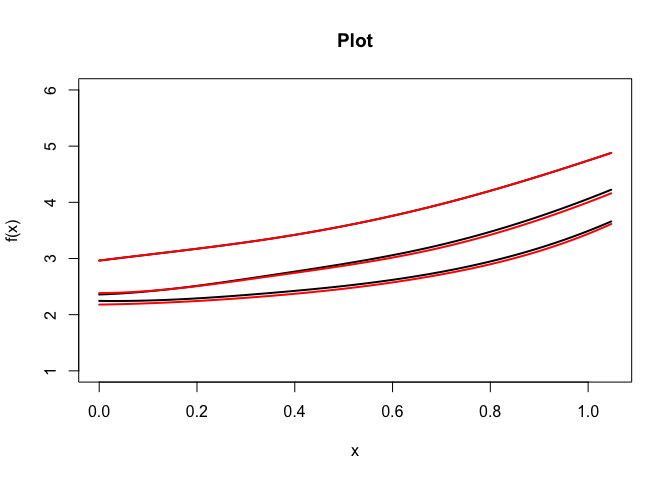
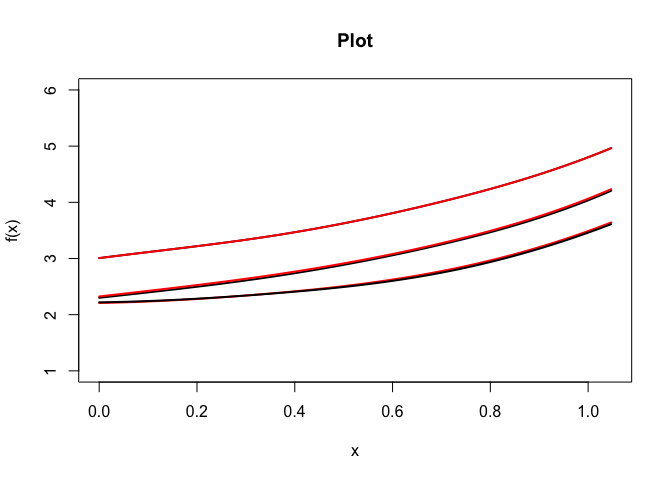
Tenth Commit

diff --git a/README.md b/README.md
@@ -40,7 +40,10 @@ library(funclustVI)
 # Model Arguments 
 x = seq(from=0,to=pi/3, length = 100)
 curves_per_cluster = 10
-Y = Case_7(x, curves_per_cluster)
+data_params = list()
+data_params$x = x 
+data_params$curves_per_cluster = curves_per_cluster
+Y = Case_7(data_params)
 K = 3 
 init = "km"
 nbasis = 6
@@ -50,27 +53,27 @@ gamma_dist_config_matrix[1, ] = c(78.125, 78.125, 78.125) * 100
 gamma_dist_config_matrix[2, ] = c(12.5, 12.5, 12.5) * 100
 convergence_threshold = 1
 verbose = FALSE
+draw = FALSE
 
-model = funcslustVI(Y, K, nbasis, x, init, true_cluster_assignments, gamma_dist_config_matrix, convergence_threshold, verbose)
+model = funcslustVI(Y, x, K, init, nbasis, convergence_threshold, gamma_dist_config_matrix, true_cluster_assignments, verbose, draw)
 
 cluster_assignemnts = model$cluster_assignments
 
 print(cluster_assignemnts)
-#>  [1] 3 3 3 3 3 3 3 3 3 3 2 2 2 2 2 2 2 2 2 2 3 1 3 1 1 1 3 3 1 1
+#>  [1] 3 3 3 3 3 3 3 3 3 3 2 2 2 2 2 2 2 2 2 2 1 1 1 1 1 1 1 1 1 1
 ```
 
 This is an example which shows how to run simulations. Since draw =
 True, a plot is generated showing the true vs estimated functions.
 
 ``` r
-#Simulation Arguments 
-case = "Case_7"
+#Initializations
 x = seq(from=0,to=pi/3, length = 100)
-curves_per_cluster = 10
 number_of_simulations = 1
-Y = Case_7(x, curves_per_cluster)
-K = 3 
-initialization_method = "km"
+
+curves_per_cluster = 50
+K = 3
+init = "km"
 nbasis = 6
 true_cluster_assignments = rep(1:K,each = curves_per_cluster)
 gamma_dist_config_matrix = matrix(0, 2, K)
@@ -79,13 +82,38 @@ gamma_dist_config_matrix[2, ] = c(12.5, 12.5, 12.5) * 100
 convergence_threshold = 1
 save_path = NULL
 verbose = FALSE
-draw = TRUE 
+draw = TRUE
 
-simulation_results = run_simulations(case, x, K, curves_per_cluster, number_of_simulations, initialization_method, nbasis, true_cluster_assignments, gamma_dist_config_matrix, convergence_threshold, save_path, verbose, draw)
+data_params = list()
+model_params = list()
+eval_func_list = list()
+
+data_params$x = x
+data_params$K = K
+data_params$curves_per_cluster = curves_per_cluster
+data_params$true_cluster_assignments = true_cluster_assignments
+data_params$generate_data = Case_7
+
+model_params$model_func = get_funclustVI_cluster_assignments
+model_params$init = init
+model_params$nbasis = nbasis
+model_params$gamma_dist_config_matrix = gamma_dist_config_matrix
+model_params$convergence_threshold = convergence_threshold
+model_params$save_path = save_path
+model_params$verbose = verbose
+model_params$draw = draw
+
+eval_func_list$mismatch = get_mismatches
+eval_func_list$vmeasure = get_v_measure
+
+eval_func_param_list = NULL
+
+run_simulations(data_params, model_params, eval_func_list, number_of_simulations, save_path)
 ```
 
 <img src="man/figures/README-simulation_plot-1.png" width="100%" />
 
-    #> mm =  2 vm =  0.8410911 seed =  1 
-    #> Average Mismatches:  2 
-    #> Average V-measure:  0.8410911
+    #> mismatch  =  5vmeasure  =  0.8996935
+    #> Average  mismatch  =  5Average  vmeasure  =  0.8996935
+    #>      [,1]      [,2]
+    #> [1,]    5 0.8996935
